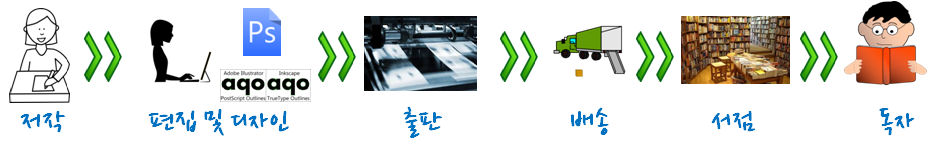
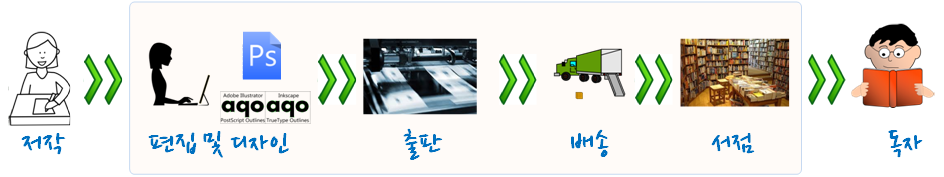
commit the first draft

diff --git a/ct-writing.html b/ct-writing.html
@@ -34,9 +34,23 @@
 <p>200자 원고지 4장은 통상 A4 용지 한장에 해당한다. 만약 A4 용지 10장 보고서나 논문을 작성한다고 하면, 종이 200자 원고지 40장에 연필이나 볼펜을 가지고 작성하게 된다. 최종본을 얻기까지 빨간색으로 선생님이나 주변의 첨삭지도를 받아 최종본을 만들기까지 여러번의 반복과정을 거치게 된다.</p>
 <p>최종 원고가 200자 원고지 40장에 담겨 탈고를 마치게 되면, 독자에게 다가갈 준비를 한다. 그림을 넣거나 아름다운 글씨체를 적용해 보고 종이 재질을 바꿔보기도 하고 영혼이 담긴 원고를 독자가 보기 좋고, 이해하기 쉽고, 때로는 감동과 재미를 줄 수 있도록 출판 단계에서 많은 사람들의 노력이 들어간다.</p>
 <p>탈고를 마친 원고에 글씨체를 비롯한 디자인 작업이 완료되면 출판장비를 갖춘 출판소에서 인쇄장비를 거쳐 종이책 혹은 보고서가 완성되고, 이렇게 대량으로 출력되면 각 서점으로 배송되어 독자가 서점에서 구독을 하게 된다.</p>
-<h3 id="컴퓨팅-사고-computational-thinking">컴퓨팅 사고 (Computational Thinking)</h3>
+<p>저자의 생각을 글로 표현하면 현재도 대부분 편집 및 디자인, 출판, 배송, 서점 등 각 단계에 사람이 관여하고 필요에 따라서는 컴퓨터가 작업을 지원하는데 사용되어 최종 독자에게 전달된다.</p>
+<p><img src="fig/writing-supply-chain.png" width="100%" /></p>
+<h3 id="컴퓨팅-사고력computational-thinking">컴퓨팅 사고력(Computational Thinking)</h3>
+<p>책과 보고서 제작하는 과정은 워드 프로세스를 기본으로 두고, 숫자 계산이 필요하면 엑셀, 이미지가 필요하면 그래픽 전문 소프트웨어, 정보 검색도 웹브라우져를 사용한다. 글자, 단어, 문장, 문단, 장/절/항으로 생각의 단위를 서문, 본문, 결어 및 참고문헌, 주석, 그림, 그래프, 도표 등도 함께 체계적으로 작성해 나간다.</p>
+<p>다양한 소프트웨어를 통해서 원고를 탈고하게 되면 서식, 문장 문단 모양, 색인, 참조문헌 등 보기 좋고 가독성 높은 형태로 외양을 입히는 과정을 거치게 되는데 이 과정도 소프트웨어가 핵심적인 역할을 하게 된다. 책과 보고서에 대한 디자인 작업이 완료되면 다양한 형태로 배포하기 위한 프로그래밍 과정을 거쳐 PDF, 전자책(ePUB), 웹(HTML), 출판책 형태로 독자에게 전달된다.</p>
 <p>글을 써서 이를 독자에게 전달되는 과정은 과거에 전문작가, 디자인 전문가, 출판전문가, 서점운영자 등 수많은 전문가가 연관되어 있고 타자기, 디자인 기계, 인쇄기 등 수많은 기계가 필요했으며 이를 사업적으로 기술적으로 연결할 수 있는 다양한 통신 방법이 필요했다. 비전문가가 밖에서 보면 복잡하고 어려워 보이지만, 컴퓨팅 사고의 시각으로 보면 단순할 수 있다.</p>
-<p><strong>컴퓨팅 사고</strong>의 핵심은 추상화(Abstraction)와 자동화(Automation)다.</p>
+<p>글을 쓸 때 컴퓨터를 이용해서 문제를 해결하는데 적용할 수 있다. <strong>컴퓨팅 사고력</strong>의 핵심은 추상화(Abstraction)와 자동화(Automation)다. 즉, 추상화과정을 통해 보고서나 책 원고를 작성하고 나면, 디지털화된 자동화된 후속 과정을 거쳐 독자에게 전달하는 것이다. 여기서 컴퓨터에 대한 이해가 필수적이고 서로 다른 책제작 과정에 프로그램이 들어가지 않는 곳이 거의 없다. 과거에는 컴퓨터 프로그램 작성 전문가만이 코딩을 할 수 있었다면, 현재는 누구나 코딩이 가능한 세상이 되었다.</p>
+<h3 id="글쓰기는-코딩이다.">글쓰기는 코딩이다.</h3>
+<p>컴퓨팅 사고력 기반으로 글쓰기 문제 해결을 실천하는 것이 코딩이다. 워드프로세서나 엑셀 등 특정 목적에 최적화된 소프트웨어 도구를 사용해서 특정 목적을 달성하는 것도 좋은 접근법이다. 하지만, 사람이 잘못하는 정확성, 반복성, 성실성이 요구되는 곳에 컴퓨터를 사용하는 것이 주어진 소중한 시간 내에서 더 많은 시간을 글쓰기 자체에 집중할 수 있게 한다.</p>
+<p>이를 위해서 마크다운이나 LaTeX을 사용해서 수식, 표, 디자인 작업에 사용해서 통해 글을 저작할 경우 재사용성을 높여 더 많은 시간을 글쓰기에 사용할 수 있게 한다. 마크다운이나 LaTeX으로 저작을 하면 출판, PDF, 전자채(ePub), 웹(HTML) 배포는 다른 소프트웨어를 한번만 설치하면 그 다음부터 명령어 하나로 해결할 수 있다. 즉, <strong>추상화</strong>를 통해 품질 높은 글을 마크다운 혹은 LaTeX 코딩 개발과정을 통해서 작성하면 <strong>자동화</strong> 과정을 컴퓨터를 사용하여 사람이 개입된 것보다 더 정확히 반복해서 성실히 작업을 완료하게 된다. 이 과정에서 거의 비용이 들지 않는 것도 눈여겨 볼 점이다.</p>
+<p>초기 단계부터 추상적 사고를 기반으로 컴퓨터를 사용하여 저작을 시작하고 다양한 소프트웨어를 사용하여 거의 중간에 사람의 개입이 필요하지 않는 자동화된 과정을 거쳐 독자에게 전달된다.</p>
+<p><img src="fig/writing_is_coding.png" width="100%" /></p>
+<h3 id="소프트웨어-교재-제작-사례">소프트웨어 교재 제작 사례</h3>
+<p><a href="http://www.xwmooc.net">엑스더블유무크(xwMOOC)</a>에서 <a href="http://r-pkgs.xwmooc.net/">R 팩키지</a>와 <a href="http://www.xwmooc.net/python/">정보교육을 위한 파이썬</a>을 마크다운과 LaTeX을 통해 데이터 과학의 핵심 소프트웨어 교육 콘텐츠를 아마존과 O’Reilly 출판사에서 판권을 받아 무료로 공개하는 작업을 추진했다. 마크다운과 LaTeX으로 한글화 작업을 거쳐 원고를 탈고하고 나면 정확하고 성실하며 24시간 일을 하는 컴퓨터에 맡겨서 출판 인쇄물, PDF, 전자채(ePub), 웹(HTML) 산출물을 얻었다. 이 과정에 번역자의 시간을 제외하면 거의 비용이 들지 않았다. 하지만, 가장 최근에 출시된 높은 품질의 데이터 과학을 교재를 찾고자 하는 내국인에게는 도움이 될 것이다. 또한, 모든 원고는 GitHub에 공개되어 있으니 공개 소프트웨어 기여를 통해서 더 많은 사람과 함께 하는 것도 추천한다.</p>
+<h3 id="마무리">마무리</h3>
+<p>사실 글쓰기 뿐만 아니라 다른 모든 분야가 <code>Computation-X</code> 라는 이름으로 융합되고 진화하고 있다. 예를 들면, 컴퓨터 생명공학(Computational Biology), 계산 통계학(Computational Statistics), 계산 물리학(Computational Physics), 컴퓨터 화학(Computational Chemistry) 등 수많은 사례를 들 수 있다. 2010년 쟈넷 윙 교수의 조사에 따르면 거의 모든 학문 분야가 컴퓨터와 연관이 되고 있으며 컴퓨터를 적극 활용하여 과학기술, 인문, 사회, 법과 제도 등에서 광범위한 융합이 나타날 것으로 내다봤다.</p>
+<p>추상화와 자동화를 근간으로 하는 컴퓨팅 사고력이 글쓰기에 적용될 때 갖게 되는 함의를 짧게 나마 전체 제작과정을 살펴봤고, 더불어 <a href="http://www.xwmooc.net">엑스더블유무크(xwMOOC)</a> 사례를 통해 컴퓨터를 적극 활용하여 거의 비용을 들이지 않고 과거에는 상상할 수 없는 작업을 쉽고 빠르고, 정확하게 수행할 수 있는 것을 확인했다.</p>
         </div>
       </div>
       </article>

diff --git a/ct-writing.md b/ct-writing.md
@@ -15,7 +15,9 @@ title: 이제 글을 쓰는 것은 소프트웨어 개발이다!
 
 탈고를 마친 원고에 글씨체를 비롯한 디자인 작업이 완료되면 출판장비를 갖춘 출판소에서 인쇄장비를 거쳐 종이책 혹은 보고서가 완성되고, 이렇게 대량으로 출력되면 각 서점으로 배송되어 독자가 서점에서 구독을 하게 된다.
 
-<img src="fig/writing-supply-chain.png" width="50%" />
+저자의 생각을 글로 표현하면 현재도 대부분 편집 및 디자인, 출판, 배송, 서점 등 각 단계에 사람이 관여하고 필요에 따라서는 컴퓨터가 작업을 지원하는데 사용되어 최종 독자에게 전달된다.
+
+<img src="fig/writing-supply-chain.png" width="100%" />
 
 ### 컴퓨팅 사고력(Computational Thinking)
 
@@ -33,7 +35,9 @@ title: 이제 글을 쓰는 것은 소프트웨어 개발이다!
 
 이를 위해서 마크다운이나 LaTeX을 사용해서 수식, 표, 디자인 작업에 사용해서 통해 글을 저작할 경우 재사용성을 높여 더 많은 시간을 글쓰기에 사용할 수 있게 한다. 마크다운이나 LaTeX으로 저작을 하면 출판, PDF, 전자채(ePub), 웹(HTML) 배포는 다른 소프트웨어를 한번만 설치하면 그 다음부터 명령어 하나로 해결할 수 있다. 즉, **추상화**를 통해 품질 높은 글을 마크다운 혹은 LaTeX 코딩 개발과정을 통해서 작성하면 **자동화** 과정을 컴퓨터를 사용하여 사람이 개입된 것보다 더 정확히 반복해서 성실히 작업을 완료하게 된다. 이 과정에서 거의 비용이 들지 않는 것도 눈여겨 볼 점이다.
 
-<img src="fig/writing_is_coding.png" width="50%" />
+초기 단계부터 추상적 사고를 기반으로 컴퓨터를 사용하여 저작을 시작하고 다양한 소프트웨어를 사용하여 거의 중간에 사람의 개입이 필요하지 않는 자동화된 과정을 거쳐 독자에게 전달된다.
+
+<img src="fig/writing_is_coding.png" width="100%" />
 
 ### 소프트웨어 교재 제작 사례
 
